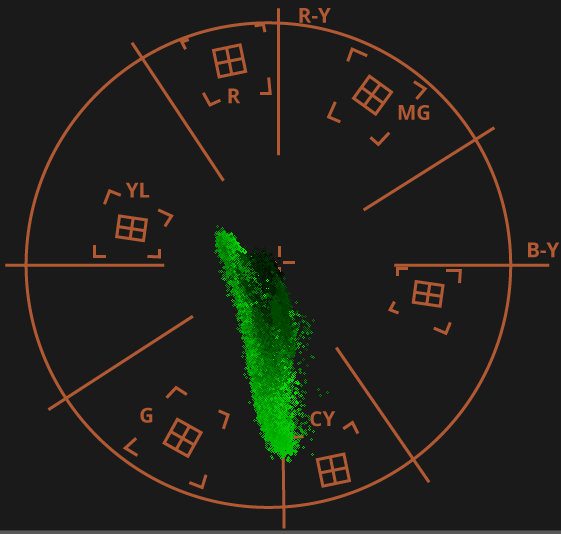
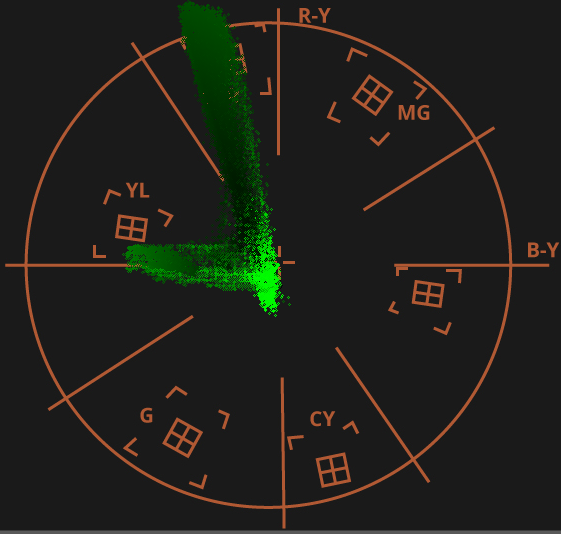
hot fixes ;)

Changed region(s): [[0.2121, 0.0, 0.5758, 0.8689]]

diff --git a/lab01/vector_scope.py b/lab01/vector_scope.py
@@ -4,14 +4,17 @@ import cv2
 
 def convert_to_vectorscope(im: np.ndarray):
     vector_image: np.ndarray = cv2.imread('images/vectorscopeBackground.png')
+    ycbcr = np.zeros(im.shape, dtype=im.dtype)
 
     for row_ind, row in enumerate(im):
         print(f'\rProcessing: {int(100 * row_ind / (im.shape[0] - 1))}%', end='')
-        for pixel in row:
-            fr, fg, fb = pixel
+        for col_ind, pixel in enumerate(row):
+            fb, fg, fr = pixel
             y = int(0.299 * fr + 0.587 * fg + 0.114 * fb)  # 0-255
             cb = -0.169 * fr - 0.331 * fg + 0.500 * fb  # -127 - 127
             cr = 0.500 * fr - 0.418 * fg - 0.082 * fb  # -127 - 127
+
+            ycbcr[row_ind, col_ind] = [y, int(cb + 128), int(cr + 128)]
 
             # cords on the plot
             vx = int(vector_image.shape[0] * (0.5 + cb / 255))
@@ -20,4 +23,4 @@ def convert_to_vectorscope(im: np.ndarray):
             cv2.circle(vector_image, (vx, vy), 1, color=(0, round(y), 0))
     print()
 
-    return vector_image
+    return ycbcr, vector_image

diff --git a/lab01/main.py b/lab01/main.py
@@ -3,9 +3,13 @@ import cv2
 from vector_scope import convert_to_vectorscope
 
 if __name__ == '__main__':
-    inputImage = cv2.imread('images/input.png')
-    outputImage = convert_to_vectorscope(inputImage)
-    cv2.imwrite('images/output.png', outputImage)
+    inputImage = cv2.imread('images/input.jpg')
+    ycbcr, outputImage = convert_to_vectorscope(inputImage)
+    ycbcr2, outputImage2 = convert_to_vectorscope(ycbcr)
+
     cv2.imshow('Input', inputImage)
-    cv2.imshow('Output', outputImage)
+    cv2.imshow('ycbcr', ycbcr)
+    cv2.imwrite('images/output.png', outputImage)
+    cv2.imshow('outputImage', outputImage2)
+
     cv2.waitKey(0)
